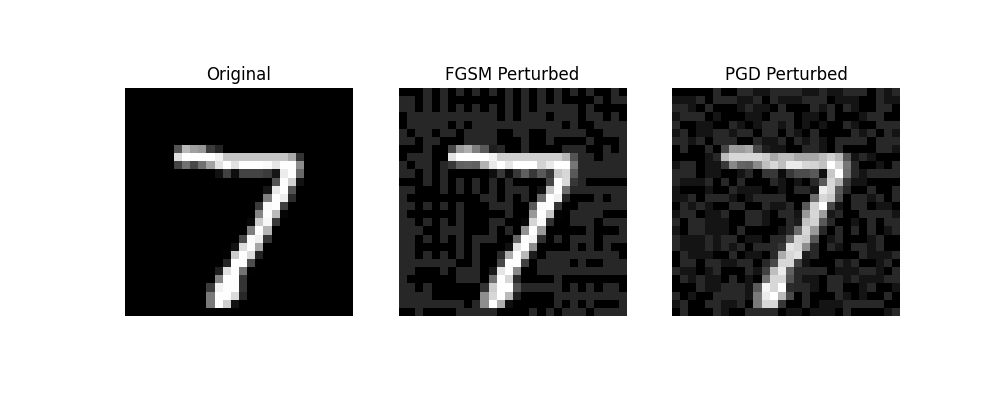
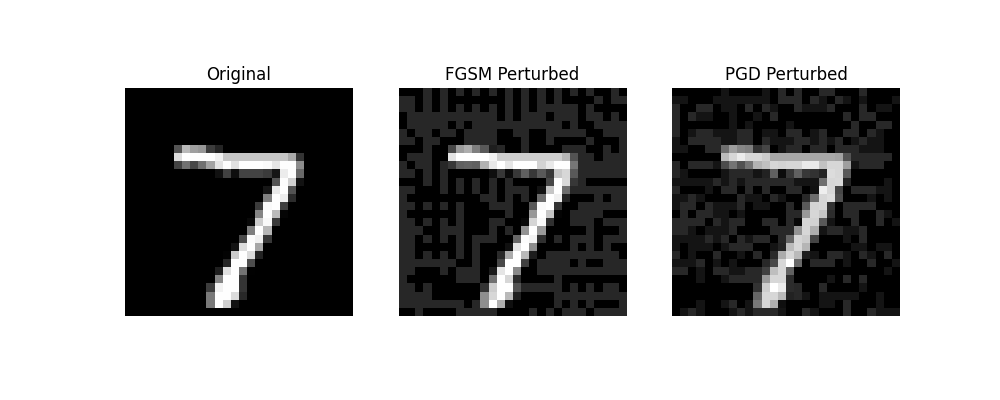
added visualize attack

Changed region(s): [[0.651, 0.21, 0.899, 0.81], [0.682, 0.24, 0.713, 0.3], [0.651, 0.72, 0.682, 0.75]]

diff --git a/Ex2/visualize_attacks.py b/Ex2/visualize_attacks.py
@@ -1,0 +1,103 @@
+### Exercise 3.2: Implement JARN
+# In exercise 2.2 you already implemented Jacobian-regularized learning to make your model 
+# more robust to adversarial samples.Add a *discriminator* to your model to encourage the 
+# adversarial samples used for regularization to be more *salient*.
+#See [the JARN paper](https://arxiv.org/abs/1912.10185) for more details.
+#
+import os
+import torch
+import torch.utils
+import torch.utils.data
+import torch.utils.data.dataloader
+import torchvision
+from torchvision import transforms
+import matplotlib.pyplot as plt
+import torch.nn.functional as F
+from torch import nn
+import numpy as np
+from sklearn import metrics
+from torch.utils.data import Subset
+from Neural_net import CNN, Discriminator
+from TrainJarn import Trainer, JARN_trainer
+
+transform = transforms.Compose([
+    transforms.ToTensor(),
+    transforms.Normalize((0.1307,), (0.3081,))
+])
+
+device = torch.device("cuda" if torch.cuda.is_available() else "cpu")
+batch_size = 128
+trainset = torchvision.datasets.MNIST(root='./data', train=True,
+                                       download=False, transform= transform)
+
+testset = torchvision.datasets.MNIST(root='./data', train=False,
+                                       download=False, transform= transform)
+
+train_loader = torch.utils.data.DataLoader(trainset, batch_size = batch_size, shuffle = True)
+test_loader = torch.utils.data.DataLoader(testset, batch_size = batch_size, shuffle = False)
+
+
+###VERY SIMPLE IMPLEMENTATION TO VISAULIZE THE PERTURBED IMAGES AFTER EACH ATTACK TYPE
+
+def PGD_perturbation(image, labels, model, loss, alpha, eps,  iter):
+    original_image = image.clone().detach()
+    x_max = original_image + eps
+    x_min = original_image - eps
+    x_adv = image.clone().detach()
+    image = image.detach()
+    for _ in range(iter):
+        x_adv.requires_grad = True
+        logit = model(x_adv)
+        l     = loss(logit, labels)
+        model.zero_grad()
+        l.backward()
+        gradient = x_adv.grad
+        perturbed_image = x_adv + alpha*gradient.sign()
+        x_adv = torch.clamp(perturbed_image, x_min, x_max).detach()
+    return x_adv
+
+def fgsm_perturbation(im, lab,  model, loss, eps):
+    im.requires_grad = True
+    logit_clean = model(im)
+    model.zero_grad()
+    l = loss(logit_clean, lab)
+    l.backward()
+    gradient = im.grad
+    gradient = gradient.detach()
+    perturbed_im = im + eps * gradient.sign()
+
+    return perturbed_im
+
+
+
+import matplotlib.pyplot as plt
+def plotting(original, fgsm_adv, pgd_adv, path):
+
+    f, ax = plt.subplots(1,3, figsize=(10, 4))
+    ax[0].imshow(original.detach().numpy().reshape(28, 28), cmap='gray')
+    ax[0].set_title("Original")
+    ax[1].imshow(fgsm_adv.detach().numpy().reshape(28, 28), cmap='gray')
+    ax[1].set_title("FGSM Perturbed")
+    ax[2].imshow(pgd_adv.detach().numpy().reshape(28, 28), cmap='gray')
+    ax[2].set_title("PGD Perturbed")
+    
+    for a in ax:
+        a.axis('off')
+
+    plt.savefig(path)
+    plt.close()
+
+model_standard = CNN()
+model_standard.load_state_dict(torch.load('Ex2/model_parameters/standard_CNN.pth', map_location = torch.device(device)))
+loss = nn.CrossEntropyLoss()
+
+im, lab = next(iter(test_loader))
+path_fgsm = os.path.join(os.getcwd(), 'Ex2/images', 'fgsm_perturbed.png')
+path_pgd  = os.path.join(os.getcwd(), 'Ex2/images', 'pgd_perturbed.png')
+path_perturbed  = os.path.join(os.getcwd(), 'Ex2/images', 'perturbed.png')
+pgd_perturbed = PGD_perturbation(im, lab, model_standard, loss, alpha= 0.3, eps= 0.3, iter= 5)
+
+
+fgsm_perturbed = fgsm_perturbation(im, lab, model_standard, loss, eps = 0.3)
+
+plotting(im[0], fgsm_perturbed[0],pgd_perturbed[0], path_perturbed)
